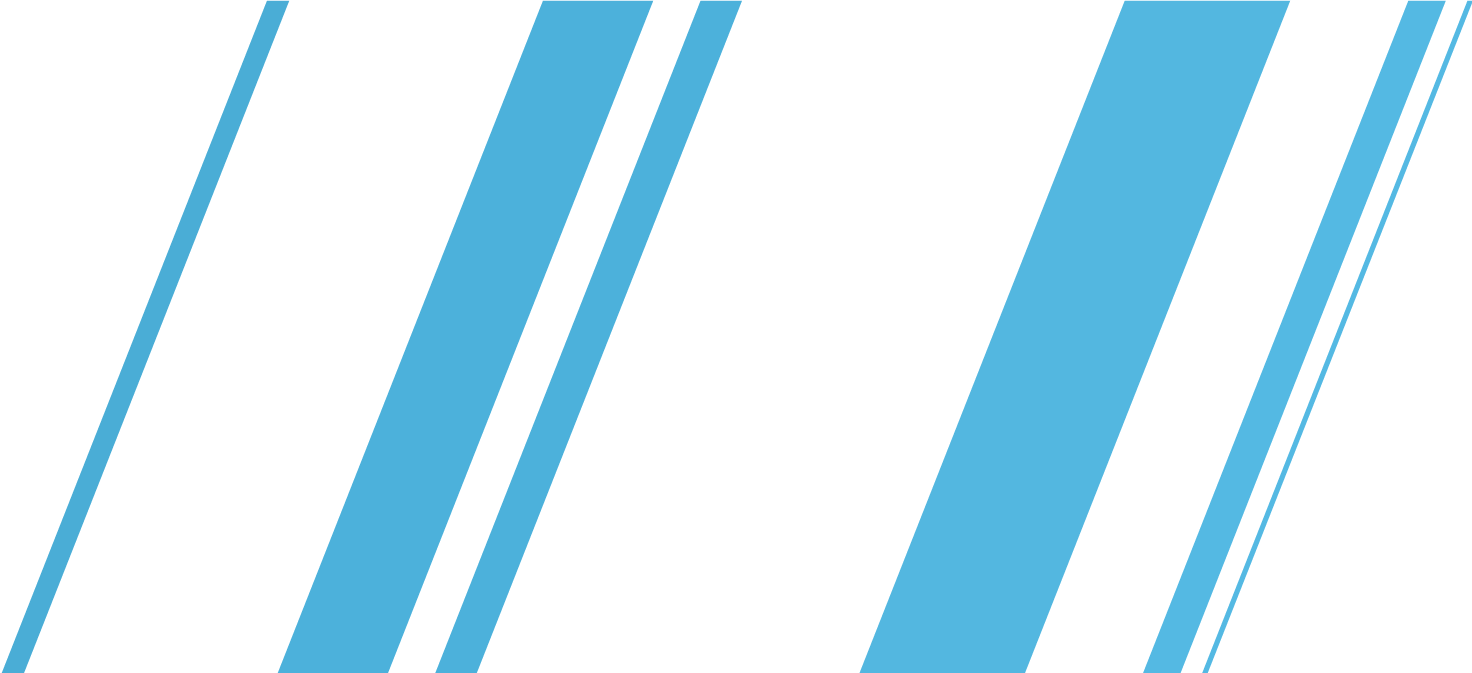
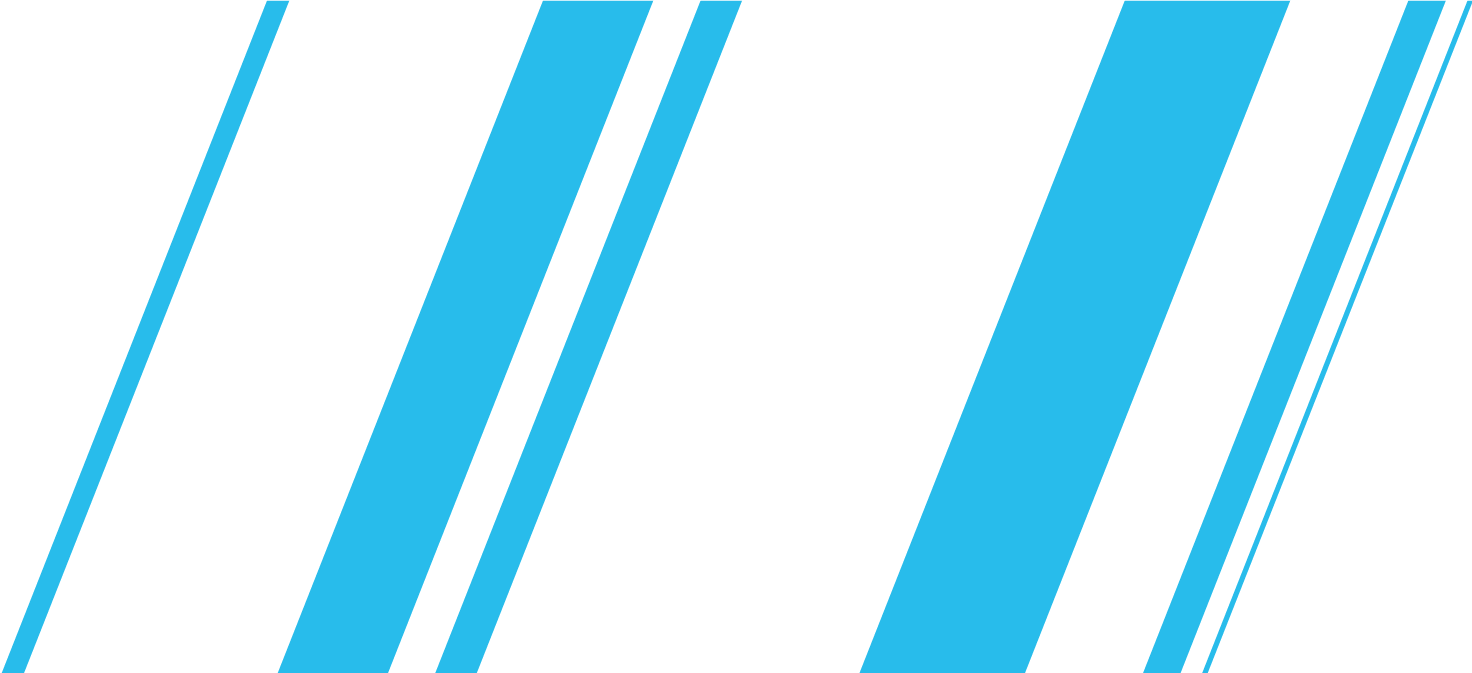
modify pic and css on homepage and about page

diff --git a/web/css/about.css b/web/css/about.css
@@ -354,6 +354,53 @@ p {
   padding: 0 15px; }
 .main-about-con .aboutR .rpaIntro .lh30 {
   line-height: 30px; }
+.main-about-con .aboutR .rpaIntro .history {
+  width: 100%;
+  height: 1106px;
+  position: relative;
+  background: url(../img/about/history.png) no-repeat 39px 18px;
+  display: inline-block;
+  *display: inline;
+  *zoom: 1; }
+  .main-about-con .aboutR .rpaIntro .history p {
+    width: 150px;
+    position: absolute;
+    text-align: left;
+    line-height: 22px;
+    font-size: 13px; }
+  .main-about-con .aboutR .rpaIntro .history .hst1 {
+    left: 79px;
+    top: 61px; }
+  .main-about-con .aboutR .rpaIntro .history .hst2 {
+    right: 40px;
+    top: 137px; }
+  .main-about-con .aboutR .rpaIntro .history .hst3 {
+    left: 79px;
+    top: 230px; }
+  .main-about-con .aboutR .rpaIntro .history .hst4 {
+    right: 40px;
+    top: 315px; }
+  .main-about-con .aboutR .rpaIntro .history .hst5 {
+    left: 79px;
+    top: 401px; }
+  .main-about-con .aboutR .rpaIntro .history .hst6 {
+    right: 40px;
+    top: 488px; }
+  .main-about-con .aboutR .rpaIntro .history .hst7 {
+    left: 79px;
+    bottom: 424px; }
+  .main-about-con .aboutR .rpaIntro .history .hst8 {
+    right: 40px;
+    bottom: 322px; }
+  .main-about-con .aboutR .rpaIntro .history .hst9 {
+    left: 79px;
+    bottom: 232px; }
+  .main-about-con .aboutR .rpaIntro .history .hst10 {
+    right: 40px;
+    bottom: 162px; }
+  .main-about-con .aboutR .rpaIntro .history .hst11 {
+    left: 79px;
+    bottom: 63px; }
 .main-about-con .aboutR .wwIntro p {
   margin: 16px 0;
   line-height: 23px; }

diff --git a/web/sass/about.scss b/web/sass/about.scss
@@ -23,6 +23,64 @@
 			.lh30{
 				line-height: 30px;
 			}
+			.history{
+				width: 100%;
+				height: 1106px;
+				position: relative; 
+				background: url(../img/about/history.png) no-repeat 39px 18px;
+				@include dib();
+				p{
+					width: 150px;
+					position: absolute;
+					text-align: left;
+					line-height: 22px;
+					font-size: 13px;
+				}
+				.hst1{
+					left: 79px;
+					top: 61px;
+				}
+				.hst2{
+					right: 40px;
+					top: 137px;
+				}
+				.hst3{
+					left: 79px;
+					top: 230px;
+				}
+				.hst4{
+					right: 40px;
+					top: 315px;
+				}
+				.hst5{
+					left: 79px;
+					top: 401px;
+				}
+				.hst6{
+					right: 40px;
+					top: 488px;
+				}
+				.hst7{
+					left: 79px;
+					bottom: 424px;
+				}
+				.hst8{
+					right: 40px;
+					bottom: 322px; 
+				}
+				.hst9{
+					left: 79px;
+					bottom: 232px;
+				}
+				.hst10{
+					right: 40px;
+					bottom: 162px;
+				}
+				.hst11{
+					left: 79px;
+					bottom: 63px;
+				}
+			}
 		}
 		.wwIntro{
 			p{

diff --git a/web/sass/index.scss b/web/sass/index.scss
@@ -22,14 +22,7 @@ $main-ad-color: #eb7020;
 .main-ad{
 	height: 673px;
 	overflow: hidden;
-	background: #43AEDB;
-    background: -moz-linear-gradient(left, #40A6D1, #46B6E5);
-    background: -webkit-gradient(linear, left, right, color-stop(#40A6D1), color-stop(#46B6E5));
-    background: -webkit-linear-gradient(left, #40A6D1, #46B6E5);
-    background: -o-linear-gradient(left, #40A6D1, #46B6E5);
-    background: -ms-linear-gradient(left, #40A6D1, #46B6E5);
-    background: linear-gradient(to right, #40A6D1, #46B6E5);
-    filter: progid:DXImageTransform.Microsoft.gradient( startColorstr='#40A6D1', endColorstr='#46B6E5',GradientType=0 );
+	background: #1bb5e6; 
 }
 .coinBg{
 	height: 673px;

diff --git a/web/css/index.css b/web/css/index.css
@@ -487,14 +487,7 @@ body {
 .main-ad {
   height: 673px;
   overflow: hidden;
-  background: #43AEDB;
-  background: -moz-linear-gradient(left, #40A6D1, #46B6E5);
-  background: -webkit-gradient(linear, left, right, color-stop(#40A6D1), color-stop(#46B6E5));
-  background: -webkit-linear-gradient(left, #40A6D1, #46B6E5);
-  background: -o-linear-gradient(left, #40A6D1, #46B6E5);
-  background: -ms-linear-gradient(left, #40A6D1, #46B6E5);
-  background: linear-gradient(to right, #40A6D1, #46B6E5);
-  filter: progid:DXImageTransform.Microsoft.gradient( startColorstr='#40A6D1', endColorstr='#46B6E5',GradientType=0 ); }
+  background: #1bb5e6; }
 
 .coinBg {
   height: 673px;
